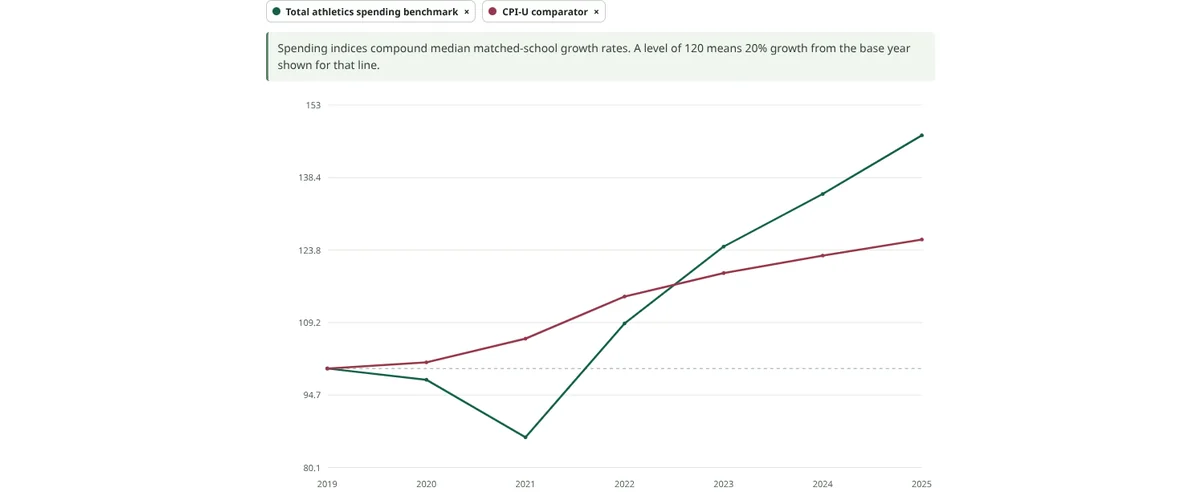
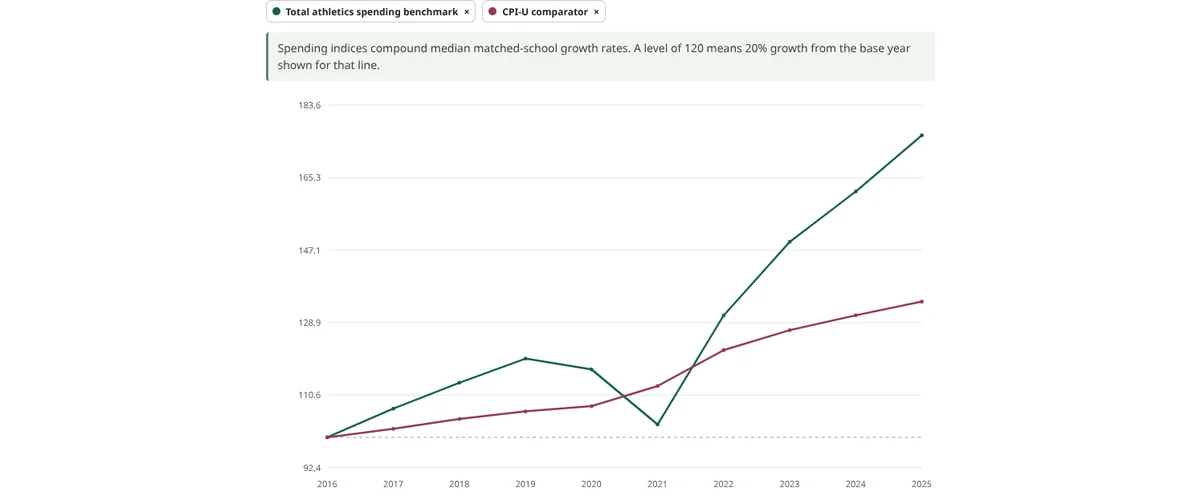
Rotate homepage dashboards and show 10 years of spending

diff --git a/assets/home/carousel.js b/assets/home/carousel.js
@@ -4,12 +4,18 @@
   const slides = Array.from(track.children);
   const controls = carousel.querySelector('.carousel-controls');
   const position = carousel.querySelector('.carousel-position');
+  const rotation = carousel.querySelector('.carousel-rotation');
+  const reducedMotion = matchMedia('(prefers-reduced-motion: reduce)');
+  let playing = !reducedMotion.matches;
+  let hovered = false;
+  let inView = false;
+  let timer;
   let current = 0;
   let scrollFrame;
 
-  function goTo(index) {
+  function goTo(index, smooth = false) {
     const target = (index + slides.length) % slides.length;
-    track.scrollTo({left: slides[target].offsetLeft, behavior: 'instant'});
+    track.scrollTo({left: slides[target].offsetLeft, behavior: smooth ? 'smooth' : 'instant'});
     updatePosition();
     return target;
   }
@@ -21,6 +27,51 @@
     current = next;
     position.textContent = (current + 1) + ' of ' + slides.length;
   }
+
+  function scheduleRotation() {
+    clearTimeout(timer);
+    const running = playing && inView && !hovered && !document.hidden;
+    position.setAttribute('aria-live', running ? 'off' : 'polite');
+    if (!running) return;
+    timer = setTimeout(() => {
+      goTo(current + 1, !reducedMotion.matches && current < slides.length - 1);
+      scheduleRotation();
+    }, 6000);
+  }
+
+  function setPlaying(value) {
+    playing = value;
+    const label = (playing ? 'Pause' : 'Start') + ' automatic scrolling';
+    rotation.setAttribute('aria-label', label);
+    rotation.title = label;
+    rotation.firstElementChild.textContent = playing ? 'Ⅱ' : '▶';
+    scheduleRotation();
+  }
+
+  rotation.addEventListener('click', () => setPlaying(!playing));
+  carousel.addEventListener('pointerenter', event => {
+    if (event.pointerType !== 'mouse') return;
+    hovered = true;
+    scheduleRotation();
+  });
+  carousel.addEventListener('pointerleave', event => {
+    if (event.pointerType !== 'mouse') return;
+    hovered = false;
+    scheduleRotation();
+  });
+  carousel.addEventListener('focusin', event => {
+    if (event.target !== rotation) setPlaying(false);
+  });
+  track.addEventListener('pointerdown', () => setPlaying(false));
+  document.addEventListener('visibilitychange', scheduleRotation);
+  reducedMotion.addEventListener('change', () => {
+    if (reducedMotion.matches) setPlaying(false);
+  });
+  new IntersectionObserver(([entry]) => {
+    inView = entry.isIntersecting;
+    scheduleRotation();
+  }, {threshold: 0.25}).observe(carousel);
+  setPlaying(playing);
 
   controls.addEventListener('click', event => {
     const button = event.target.closest('[data-step]');
